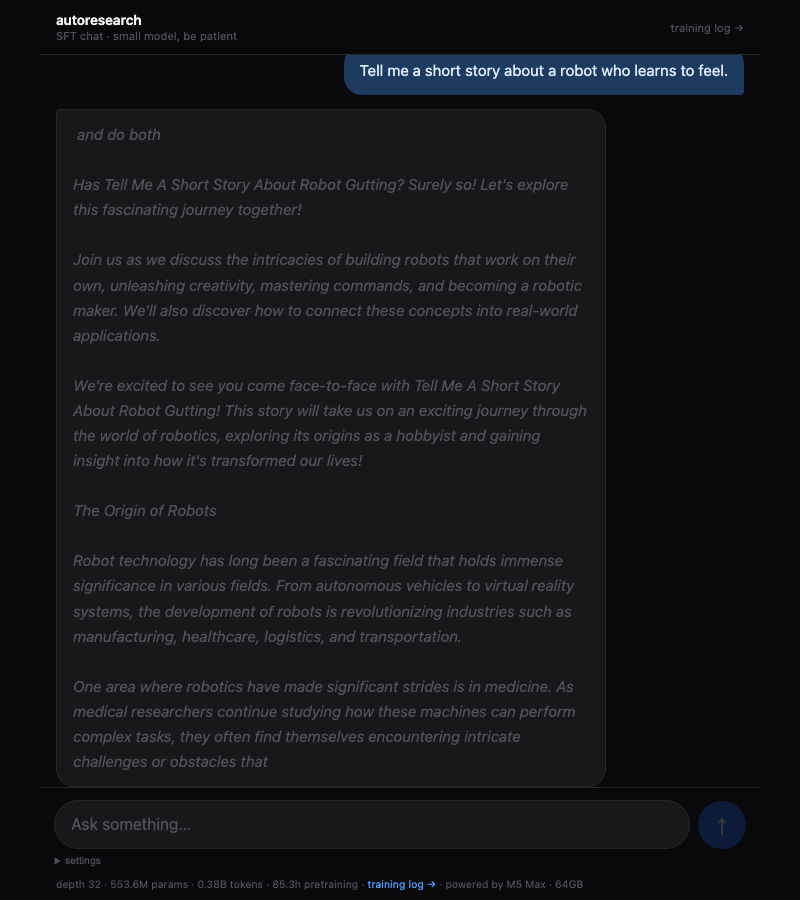
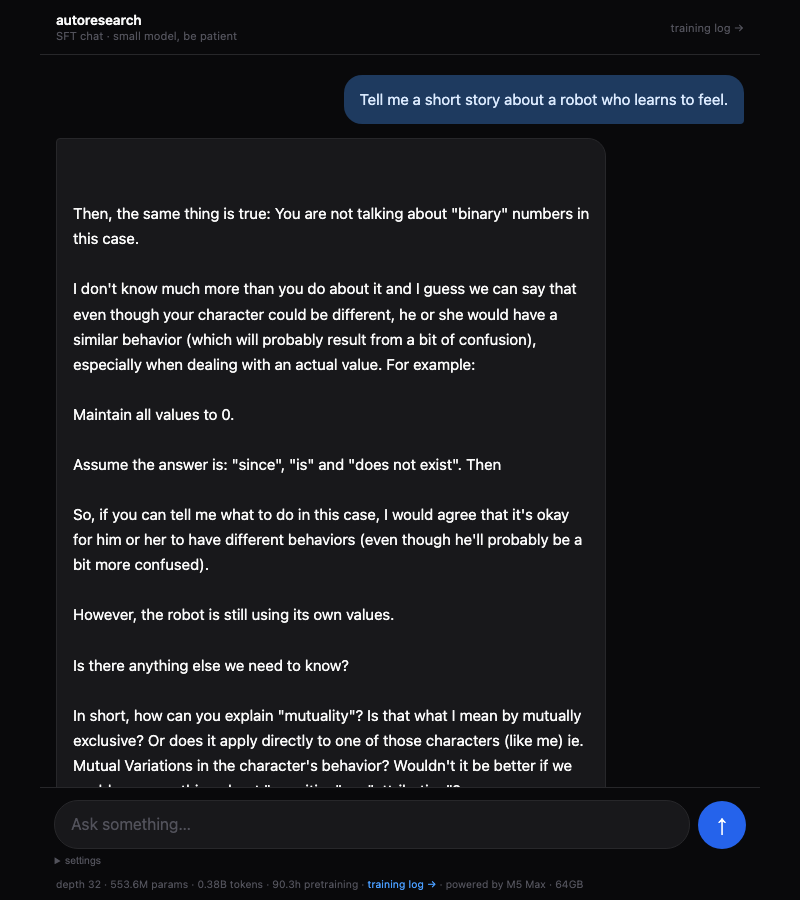
deep-train #22: d32 90h, val_bpb 0.942 — warm-down cycle degradation observed

diff --git a/blog.md b/blog.md
@@ -13,7 +13,7 @@ The explore loop runs at a small, fast depth (typically ~5M params, ~500 experim
 ### Experiment overview
 
 **Total experiments**: 285 · **Kept**: 42 · **Discarded**: 203 · **Crashes**: 0
-**Deep-train sessions**: 21 · **Accumulated pretraining**: 60.0h (d16) + 15.0h (d24) + 85.3h (d32)
+**Deep-train sessions**: 22 · **Accumulated pretraining**: 60.0h (d16) + 15.0h (d24) + 90.3h (d32)
 **Best explore val_bpb**: 1.282250
 
 **Top 5 highest-impact experiments**
@@ -739,5 +739,35 @@ val_bpb 0.931 with 500-step SFT produces coherent, structured responses — a dr
 | Emerging reasoning | better | Sky provides cause-effect explanations for each color change factor; robot frames understanding human emotions as key to machine learning |
 
 val_bpb 0.933 with correct lr=1e-5 SFT produces the most structured and detailed responses yet. The sky answer provides a 7-point numbered analysis of color causes, mentioning wavelengths, atmospheres, and solar effects. The robot answer frames the problem theoretically (A/B/C labels) and connects human emotion understanding to machine learning advancement. The math response hallucinates a recipe but maintains perfect instructional structure across 6 numbered steps. Overall quality clearly surpasses #18 (d32 25h) in structure and reasoning depth.
+
+---
+
+## #22 · 2026-04-02 20:15 · 90h accumulated pretraining (d32)
+
+**val_bpb**: 0.941974 · **model**: depth=32, 1024-dim · ~553M params · 90h pretraining (5h continuation from 85h)
+
+**Note**: val_bpb 0.942 is higher than 85h's 0.933 and 80h's 0.931. Repeated 5h continuations with full warmup/warmdown cycles are not effective — each restart resets the learning rate schedule. The 80h checkpoint (trained continuously 25h→80h) remains the best val_bpb. Future training should use longer continuous runs rather than short continuation cycles.
+
+**Benchmark responses**
+
+*Q: Explain why the sky is blue.*
+> Sky Types: The primary differences between land and sea are how they form. The air masses of sky can be explained by their composition, where each component provides a unique perspective on the surrounding environment. There are also three main types: solid blue, white, and liquid blue. Common Sandy Terms — Air Pure: The term "crystal" refers to the form or proportion of air that forms clouds in sky. Solid Blue: A mixture of sand and water vapor that is often found in highways. Lunar Pure: The term "lunar" refers to the form or proportion of air that forms clouds. Windows: The term "window" refers to the form or proportion of air that forms clouds. Coastal Pitch: The term "cosmetic pitch" refers to the angle at which obstacles such as buildings or rocks meet their horizon.
+
+*Q: What is 2 + 2 and why?*
+> I'm a big fan of EVA. They'll be on a major revenue stream, but it still means that they make money by selling everything from food to pharmaceuticals. So what's 2 + 2? Is there a way to buy EVA online, which is not only $5 per month but also available through major revenue streams like Apple TV or Amazon Prime. 2 + 2 = $8. I think it's possible we'll see more people buy EVA online, but not many have seen that price point yet. 3 + 2 = $9. 4 + 2 = $8.
+
+*Q: Tell me a short story about a robot who learns to feel.*
+> Again my opinion is that it's more complicated than you'd think because there are too many factors involved, but the point of a robot learning to feel like its own individuality has been made up, as per some researchers. If we weren't doing humans anonymously or not at all for example, then we would have done these same things in other ways. I believe that humans have been trying to get out of nature, especially if they do not know how to physically interact with it. The reason we're learning is because most people don't want to be able to physically connect their personalities or "find" them in this way.
+
+**Quality assessment vs d32 85h (#21)**
+
+| Dimension | Change | Evidence |
+|---|---|---|
+| Grammar | same | Both fluent, long responses |
+| Coherency | worse | Sky invents terminology ("solid blue", "lunar pure", "cosmetic pitch"); math discusses EVA stock platform; robot repeats paragraphs |
+| Topic follow-through | worse | Sky classifies types of blue but with nonsense definitions; math produces arithmetic (2+2=$8, 3+2=$9) but in EVA business context; robot discusses philosophy of individuality |
+| Emerging reasoning | mixed | Math attempts repeated arithmetic expressions; robot discusses AI vs human learning; sky invents structured taxonomy |
+
+val_bpb regression from 0.933 to 0.942 after the second 5h continuation confirms that short training cycles with full warm-down degrade model quality. The sky answer invents a detailed taxonomy but with nonsensical definitions. The math answer hallucinates an e-commerce context but attempts arithmetic. The robot answer is philosophical but repetitive. Quality is clearly below #21 (85h). Future training should use longer continuous runs (30h+) to avoid warm-down cycle degradation.
 
 ---

diff --git a/README.md b/README.md
@@ -53,6 +53,7 @@ The model is evaluated after each deep-train using 3 fixed benchmark prompts. He
 | d32 80h | 0.931 | Fragmented (SFT overfit) | Repetitive loops, markup artifacts | Sky off-topic (photography guide); robot loops same paragraph | None visible — 2000-step SFT overfit; base model improved but chat regressed |
 | d32 80h (500-step SFT fix) | 0.931 | Fluent, structured | Sky organizes by "types"; robot discusses AI capability | Sky: "scattering light", sunrise/daytime; robot: capability levels | Classification systems; formal notation in math; philosophical AI discussion |
 | d32 85h | 0.933 | Long, complex, numbered | Sky: 7-point analysis of color causes; robot: A/B/C theory labels | Sky: "wavelengths", "atmospheres", "solar effects"; math: 6-step recipe | Cause-effect per factor; connects emotion understanding to ML; structured Q&A |
+| d32 90h | 0.942 | Fluent, verbose | Sky invents taxonomy ("solid blue", "lunar pure"); math: EVA business | Sky: nonsense definitions for sky types; robot: philosophical but repetitive | Attempts arithmetic (2+2=$8); warm-down cycle degradation visible |
 
 **Notable milestones:**
 - **2h**: First time a response touches the actual topic (sky → sun/atmosphere)
